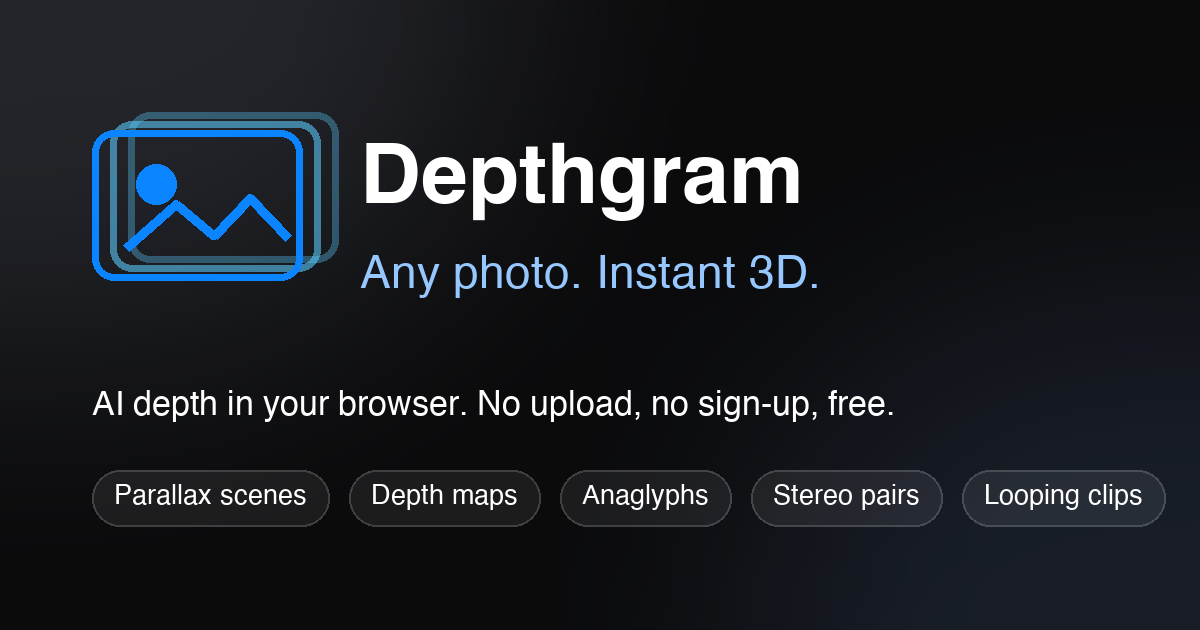
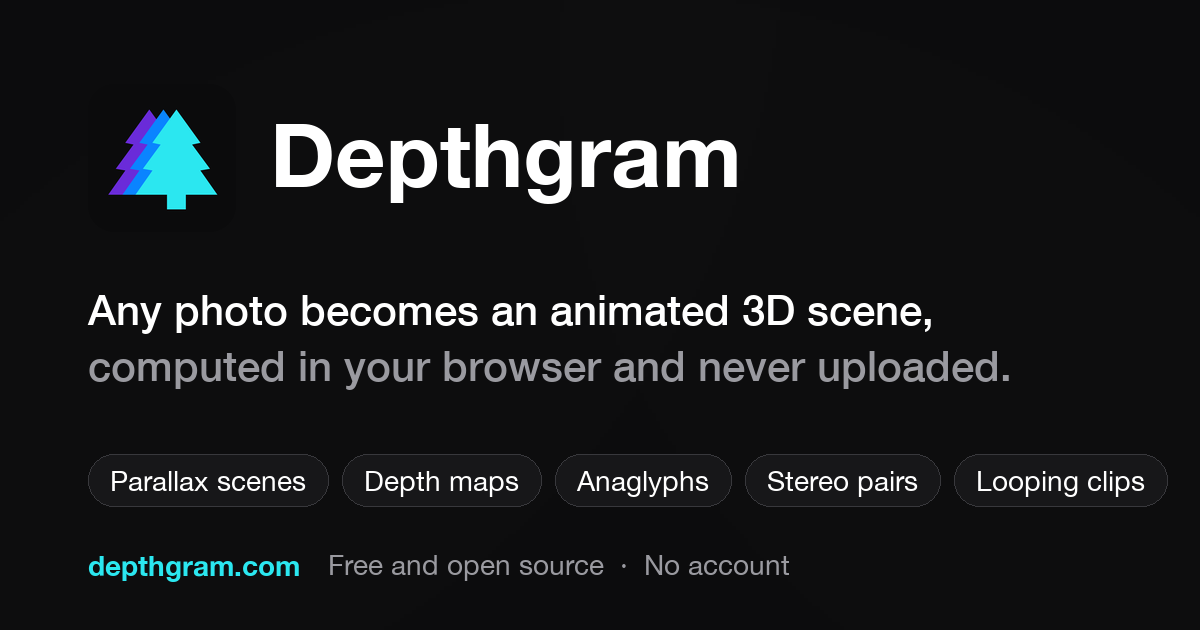
feat: redraw the mark as layered pine trees and generate every size
The old camera-frame favicon existed only at 64 px, and the social card was
hand-made, so nothing matched anything else. build_icons.py now holds the
geometry once and emits the SVG, a four-size ICO, the PNG favicon, the Apple
touch icon, both PWA icons, the maskable variant and the 1200x630 card from
that single definition.

The mark is three pine trees on one silhouette, offset horizontally and
running violet to accent blue to cyan: rising luminance is what makes the
layers recede, and it is the parallax stack the renderer builds drawn as an
object. Only the front tree keeps a trunk; back trunks turn to noise below
32 px. Each ICO frame is rendered at its own size rather than resampled, so
the tier notches survive at 16 px.

Claude-Session: https://claude.ai/code/session_014Xk9DUtCQHUovp24XJhBnX

diff --git a/build_icons.py b/build_icons.py
@@ -1,0 +1,279 @@
+#!/usr/bin/env python3
+"""
+build_icons.py: generate every brand asset from one geometry definition.
+
+Why a script: the mark exists at eight sizes plus the social card, and a
+hand-edited copy always drifts from the others. Edit TREE/COLORS here and
+re-run; never touch the generated files.
+
+    python3 build_icons.py
+
+Writes favicon.svg, favicon.ico, favicon-96x96.png, apple-touch-icon.png,
+icon-192.png, icon-512.png, icon-512-maskable.png and og.png.
+
+Requires Pillow. Everything else is stdlib.
+
+The mark is three pine trees on the same silhouette, offset horizontally and
+shaded from far (desaturated) to near (accent): the parallax layer stack the
+renderer builds, drawn as an object. Only the front tree carries a trunk;
+trunks on the back layers read as noise below 32 px.
+"""
+
+import struct
+from PIL import Image, ImageDraw, ImageFont
+
+OUT = {
+    "favicon.svg": None,
+    "favicon.ico": (16, 32, 48, 64),
+    "favicon-96x96.png": 96,
+    "apple-touch-icon.png": 180,
+    "icon-192.png": 192,
+    "icon-512.png": 512,
+    "icon-512-maskable.png": 512,
+    "og.png": (1200, 630),
+}
+
+# ---------------------------------------------------------------- palette
+BG = "#0B0B0C"          # --page
+# Far to near runs violet, accent blue, cyan: rising luminance so the layers
+# still recede, and three hues so the mark reads as split colour channels
+# rather than one blue tree drawn three times.
+FAR = "#6A2BD9"
+MID = "#0A84FF"         # --accent
+NEAR = "#2BE7F0"
+INK = "#FFFFFF"
+LABEL = "#9A9AA0"
+
+RADIUS = 0.176          # corner radius as a fraction of the icon side
+
+# ---------------------------------------------------------------- geometry
+# Unit space: 0..1 across the icon square. The front tree's apex sits right of
+# centre so the three layers stay balanced inside the rounded square.
+CX = 0.5885
+TREE = dict(
+    apex=0.2026,
+    t1_bot=0.4067, h1=0.1475,
+    t2_top=0.4171, h2t=0.0965,
+    t2_bot=0.5662, h2=0.2058,
+    t3_top=0.5766, h3t=0.1467,
+    t3_bot=0.7256, h3=0.2512,
+    trunk_bot=0.8150, trunk_half=0.0574,
+)
+# Back-to-front: horizontal offset from the front tree, and fill.
+LAYERS = ((-0.1667, FAR), (-0.0797, MID), (0.0, NEAR))
+
+
+def foliage(cx):
+    """Closed pine outline: three tiers, each stepping in at the notch."""
+    t = TREE
+    right = [
+        (cx, t["apex"]),
+        (cx + t["h1"], t["t1_bot"]),
+        (cx + t["h2t"], t["t2_top"]),
+        (cx + t["h2"], t["t2_bot"]),
+        (cx + t["h3t"], t["t3_top"]),
+        (cx + t["h3"], t["t3_bot"]),
+    ]
+    left = [(2 * cx - x, y) for x, y in reversed(right[1:])]
+    return right + left
+
+
+def trunk(cx):
+    t = TREE
+    return [
+        (cx - t["trunk_half"], t["t3_bot"]),
+        (cx + t["trunk_half"], t["t3_bot"]),
+        (cx + t["trunk_half"], t["trunk_bot"]),
+        (cx - t["trunk_half"], t["trunk_bot"]),
+    ]
+
+
+# The mark is centred on (.5,.5) already; this only trades padding for legible
+# notches at 16 px. Anything past ~1.15 crowds the rounded corners.
+ART_SCALE = 1.10
+
+
+def shapes():
+    """Every filled polygon, back to front, in unit space."""
+    out = []
+    for dx, fill in LAYERS:
+        out.append((foliage(CX + dx), fill))
+    out.append((trunk(CX), NEAR))
+    s = ART_SCALE
+    return [([(0.5 + (x - 0.5) * s, 0.5 + (y - 0.5) * s) for x, y in poly], fill)
+            for poly, fill in out]
+
+
+# ---------------------------------------------------------------- svg
+def write_svg(path, side=64):
+    def pts(poly):
+        return " ".join(
+            ("M" if i == 0 else "L") + f"{x * side:.2f} {y * side:.2f}"
+            for i, (x, y) in enumerate(poly)
+        ) + "Z"
+
+    body = "\n".join(
+        f'  <path d="{pts(poly)}" fill="{fill}"/>' for poly, fill in shapes()
+    )
+    svg = (
+        f'<svg xmlns="http://www.w3.org/2000/svg" viewBox="0 0 {side} {side}" '
+        f'role="img" aria-label="Depthgram">\n'
+        f'  <rect width="{side}" height="{side}" rx="{RADIUS * side:.2f}" fill="{BG}"/>\n'
+        f"{body}\n</svg>\n"
+    )
+    with open(path, "w") as f:
+        f.write(svg)
+
+
+# ---------------------------------------------------------------- raster
+SS = 8  # supersample factor; the notches are the part that aliases
+
+
+def rounded_mask(side, radius):
+    m = Image.new("L", (side * SS, side * SS), 0)
+    ImageDraw.Draw(m).rounded_rectangle(
+        (0, 0, side * SS - 1, side * SS - 1), radius=radius * SS, fill=255
+    )
+    return m.resize((side, side), Image.LANCZOS)
+
+
+def render(side, *, rounded=True, scale=1.0):
+    """Icon at `side` px. `scale` shrinks the mark inside the square."""
+    big = side * SS
+    im = Image.new("RGBA", (big, big), (0, 0, 0, 0))
+    d = ImageDraw.Draw(im)
+    d.rectangle((0, 0, big, big), fill=BG)
+    off = (1 - scale) / 2
+    for poly, fill in shapes():
+        d.polygon([((off + x * scale) * big, (off + y * scale) * big) for x, y in poly],
+                  fill=fill)
+    im = im.resize((side, side), Image.LANCZOS)
+    if rounded:
+        im.putalpha(rounded_mask(side, int(round(RADIUS * side))))
+    return im
+
+
+def write_ico(path, sizes):
+    """Multi-size ICO. Pillow's own writer resamples one image; these are
+    rendered per size so the 16 px notches survive."""
+    frames = [render(s).convert("RGBA") for s in sizes]
+    import io
+
+    blobs = []
+    for f in frames:
+        buf = io.BytesIO()
+        f.save(buf, format="PNG")
+        blobs.append(buf.getvalue())
+    header = struct.pack("<HHH", 0, 1, len(frames))
+    offset = 6 + 16 * len(frames)
+    entries, data = b"", b""
+    for f, blob in zip(frames, blobs):
+        w = 0 if f.width >= 256 else f.width
+        h = 0 if f.height >= 256 else f.height
+        entries += struct.pack("<BBBBHHII", w, h, 0, 0, 1, 32, len(blob), offset)
+        offset += len(blob)
+        data += blob
+    with open(path, "wb") as fh:
+        fh.write(header + entries + data)
+
+
+# ---------------------------------------------------------------- og card
+FONTS = (
+    "/System/Library/Fonts/HelveticaNeue.ttc",
+    "/System/Library/Fonts/Supplemental/Arial.ttf",
+    "/Library/Fonts/Arial.ttf",
+)
+
+
+FACE = {"regular": 0, "bold": 1, "medium": 10}
+
+
+def font(size, weight="regular"):
+    for path in FONTS:
+        try:
+            if path.endswith(".ttc"):
+                return ImageFont.truetype(path, size, index=FACE[weight])
+            if weight != "regular":
+                try:
+                    return ImageFont.truetype(path.replace("Arial.ttf", "Arial Bold.ttf"), size)
+                except OSError:
+                    pass
+            return ImageFont.truetype(path, size)
+        except OSError:
+            continue
+    return ImageFont.load_default()
+
+
+def glow(im, cx, cy, r, alpha):
+    """The site paints blurred white circles behind the glass; the card keeps
+    the same background so the two read as one surface."""
+    layer = Image.new("L", (im.width // 4, im.height // 4), 0)
+    d = ImageDraw.Draw(layer)
+    steps = 42
+    for i in range(steps):
+        t = 1 - i / steps
+        rr = r * t / 4
+        d.ellipse((cx / 4 - rr, cy / 4 - rr, cx / 4 + rr, cy / 4 + rr),
+                  fill=int(alpha * 255 / steps) * (i + 1) // steps + 1)
+    layer = layer.resize(im.size, Image.BICUBIC)
+    white = Image.new("RGB", im.size, "#FFFFFF")
+    return Image.composite(white, im, layer.point(lambda v: min(v, int(alpha * 255))))
+
+
+PILLS = ("Parallax scenes", "Depth maps", "Anaglyphs", "Stereo pairs", "Looping clips")
+
+
+def pill(im, d, x, y, text, f):
+    """The card reuses the app's segmented-control look: faint fill, hairline
+    stroke, no shadow. Returns the advance."""
+    pad, hh = 22, 52
+    tw = d.textlength(text, font=f)
+    d.rounded_rectangle((x, y, x + tw + pad * 2, y + hh), radius=hh // 2,
+                        fill=(23, 23, 25), outline=(56, 56, 60), width=1)
+    d.text((x + pad, y + hh / 2), text, font=f, fill=INK, anchor="lm")
+    return tw + pad * 2 + 14
+
+
+def write_og(path, size):
+    w, h = size
+    im = Image.new("RGB", size, BG)
+    im = glow(im, -40, -80, 820, 0.075)
+    im = glow(im, w + 60, h * 0.1, 700, 0.05)
+    im = glow(im, w * 0.5, h + 260, 900, 0.04)
+    d = ImageDraw.Draw(im)
+
+    mark, mx, my = 148, 88, 84
+    im.paste(render(mark), (mx, my), render(mark))
+
+    d.text((mx + mark + 34, my + mark / 2 - 4), "Depthgram",
+           font=font(88, "bold"), fill=INK, anchor="lm")
+
+    d.text((mx, my + mark + 52), "Any photo becomes an animated 3D scene,",
+           font=font(42, "medium"), fill=INK)
+    d.text((mx, my + mark + 108), "computed in your browser and never uploaded.",
+           font=font(42, "medium"), fill=LABEL)
+
+    x, f = mx, font(28)
+    for p in PILLS:
+        x += pill(im, d, x, h - 176, p, f)
+
+    site, foot = "depthgram.com", font(28)
+    d.text((mx, h - 82), site, font=font(28, "bold"), fill=NEAR)
+    d.text((mx + d.textlength(site, font=font(28, "bold")) + 28, h - 82),
+           "Free and open source  ·  No account", font=foot, fill=LABEL)
+    im.save(path, optimize=True)
+
+
+# ---------------------------------------------------------------- main
+if __name__ == "__main__":
+    write_svg("favicon.svg")
+    write_ico("favicon.ico", OUT["favicon.ico"])
+    render(96).save("favicon-96x96.png", optimize=True)
+    # iOS applies its own mask, so the touch icon is full bleed and opaque.
+    render(180, rounded=False).convert("RGB").save("apple-touch-icon.png", optimize=True)
+    render(192).save("icon-192.png", optimize=True)
+    render(512).save("icon-512.png", optimize=True)
+    # Maskable art must survive a 40% safe-zone circle crop.
+    render(512, rounded=False, scale=0.72).save("icon-512-maskable.png", optimize=True)
+    write_og("og.png", OUT["og.png"])
+    print("wrote:", ", ".join(OUT))
